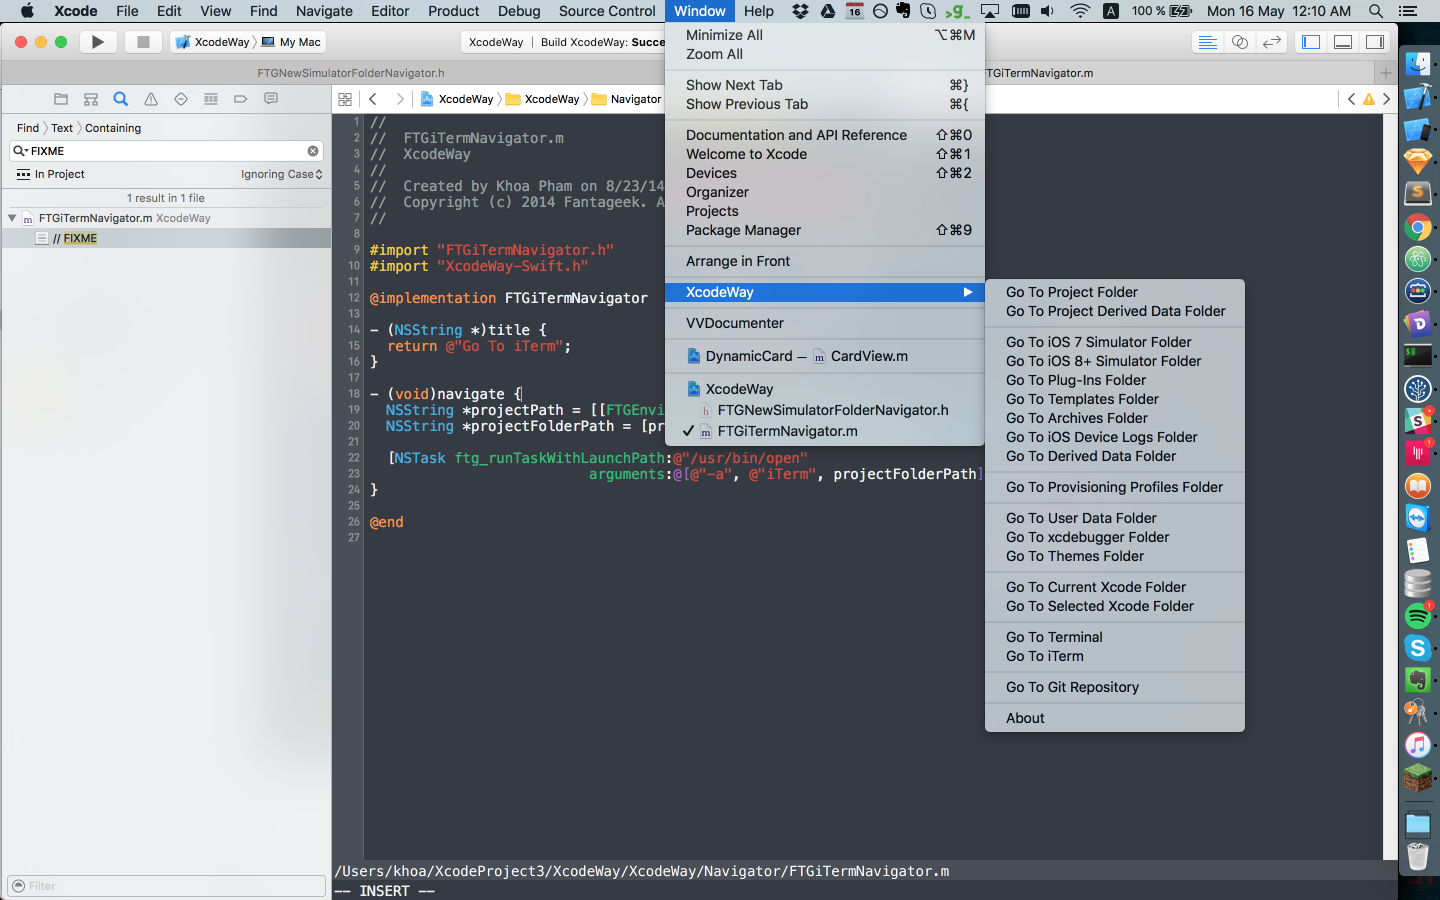
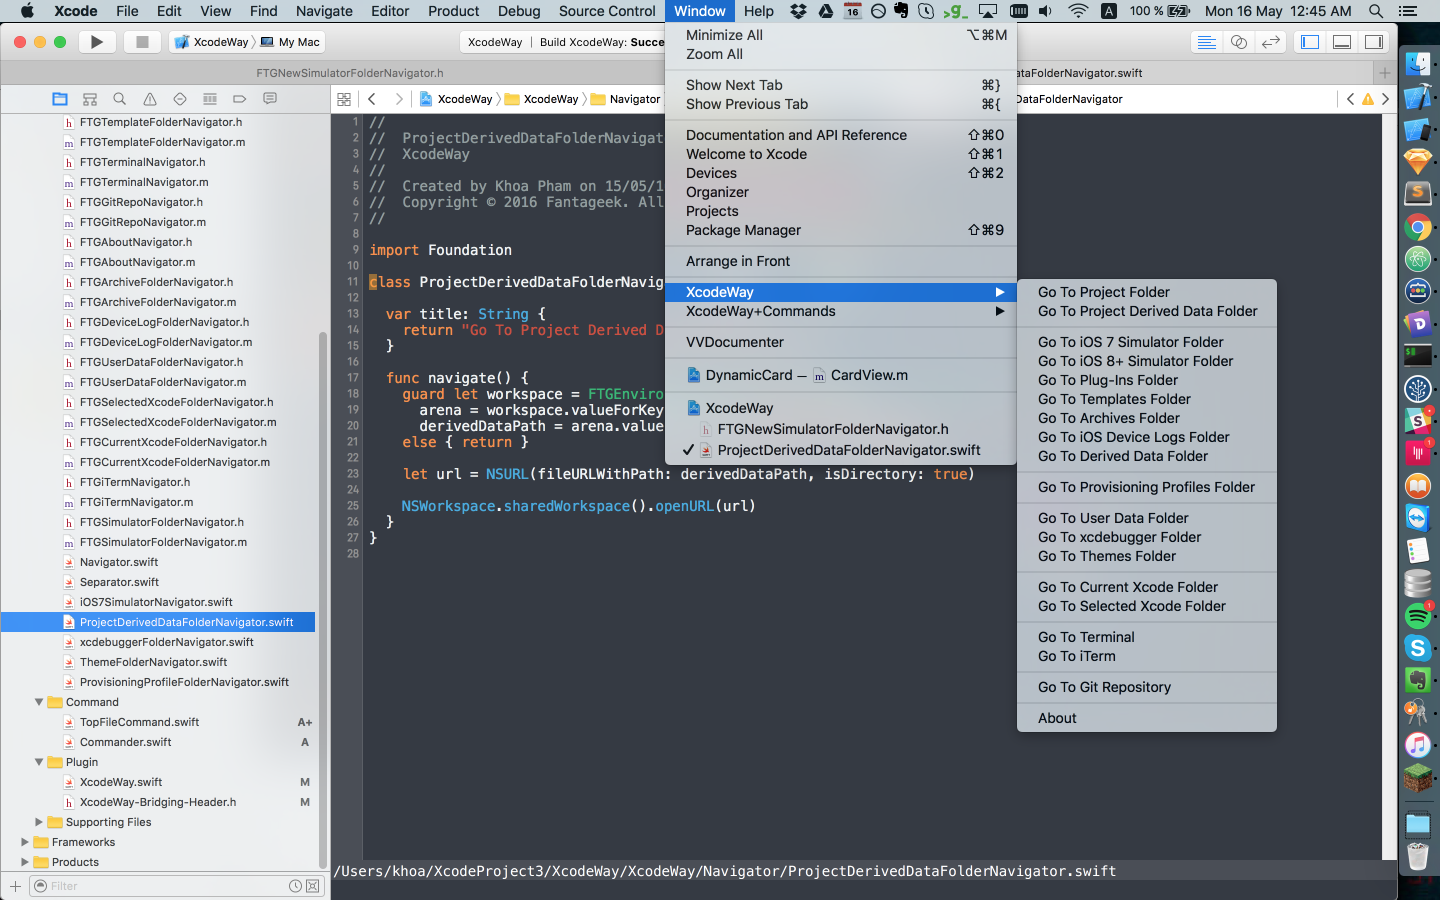
Update README

Changed region(s): [[0.0, 0.0, 0.9375, 1.0], [0.3125, 0.0311, 0.4688, 0.0622], [0.9375, 0.0933, 0.9688, 0.1244]]

diff --git a/XcodeWay/Command/Commander.swift b/XcodeWay/Command/Commander.swift
@@ -1,0 +1,21 @@
+//
+//  Commander.swift
+//  XcodeWay
+//
+//  Created by Khoa Pham on 16/05/16.
+//  Copyright © 2016 Fantageek. All rights reserved.
+//
+
+import Foundation
+
+struct Commander {
+
+  static func run(command: String) {
+    let script =
+    "tell application \"Terminal\"\n"
+    " do script \"echo hello world\"\n"
+    "end tell"
+
+    NSTask.ftg_runTaskWithLaunchPath("/usr/bin/osascript", arguments: ["-e", script])
+  }
+}

diff --git a/XcodeWay/Command/TopFileCommand.swift b/XcodeWay/Command/TopFileCommand.swift
@@ -8,7 +8,7 @@
 
 import Foundation
 
-class TopFileNavigator: NSObject, Navigator {
+class TopFileCommand: NSObject, Navigator {
 
   var title: String {
     return "List files with most lines"
@@ -16,5 +16,6 @@ class TopFileNavigator: NSObject, Navigator {
 
   func navigate() {
     let command = "find . -name \"*.[swift, m]\" -type f | xargs wc -l|sort -rn|grep -v ' total$'|head -10"
+    Commander.run(command)
   }
 }

diff --git a/XcodeWay/Plugin/XcodeWay.swift b/XcodeWay/Plugin/XcodeWay.swift
@@ -131,7 +131,7 @@ public class XcodeWay: NSObject {
 
   let commands: [Navigator] = {
     return [
-      TopFileNavigator()
+      TopFileCommand()
     ]
   }()
 }

diff --git a/XcodeWay/Categories/NSTask+FTGAdditions.m b/XcodeWay/Categories/NSTask+FTGAdditions.m
@@ -52,7 +52,8 @@
     NSTask *task = [[NSTask alloc] init];
     task.launchPath = launchPath;
     task.arguments = arguments;
-    
+    [task waitUntilExit];
+
     [task launch];
 }
 

diff --git a/XcodeWay/Plugin/XcodeWay-Bridging-Header.h b/XcodeWay/Plugin/XcodeWay-Bridging-Header.h
@@ -18,3 +18,4 @@
 #import "FTGCurrentXcodeFolderNavigator.h"
 #import "FTGiTermNavigator.h"
 #import "FTGSimulatorFolderNavigator.h"
+#import "NSTask+FTGAdditions.h"

diff --git a/README.md b/README.md
@@ -4,14 +4,17 @@ Navigate to many places from Xcode
 
 ![](Screenshots/Banner.png)
 
-How to use it
---
-XcodeWay is available via Window -> XcodeWay menu
+Features
+==
+
+- XcodeWay
+  - Help navigate to many places
+  - Available via `Window -> XcodeWay`
+- XcodeWay+Commands
+  - Useful commands
+  - Available via `Window -> XcodeWay+Commands`
 
 ![](Screenshots/XcodeWay.png)
-
-Features
---
 
 ### Navigators
 
@@ -35,6 +38,13 @@ Features
 - Go To Git Repositories
 
 ### Command
+
+- List top files with most lines
+- List top assets with largest sizes
+- Show FIXME, TODO warnings
+- List dynamic libraries sizes
+- Reload Xcode bundles
+- Show Xcode `DVTPlugInCompatibilityUUID` 
 
 ### Extensible
 
